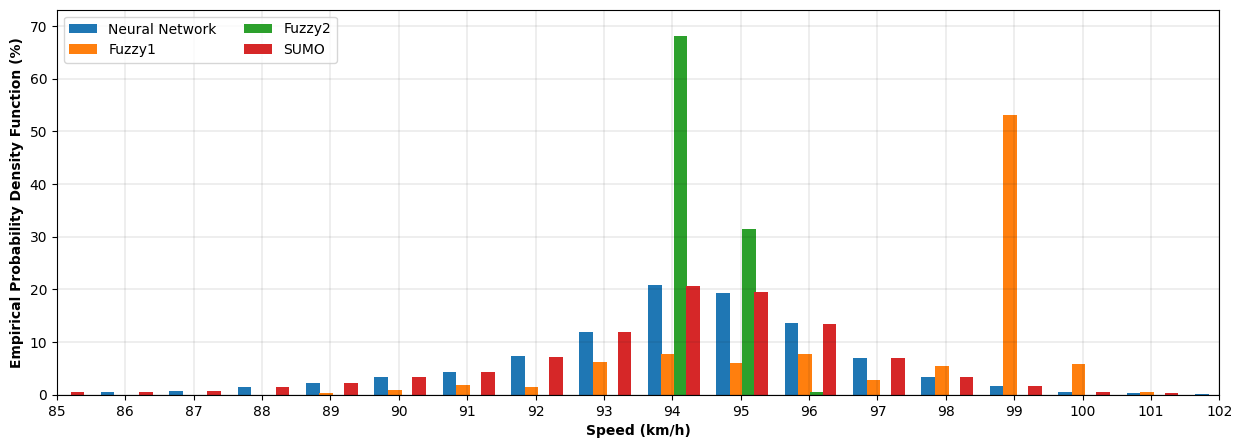
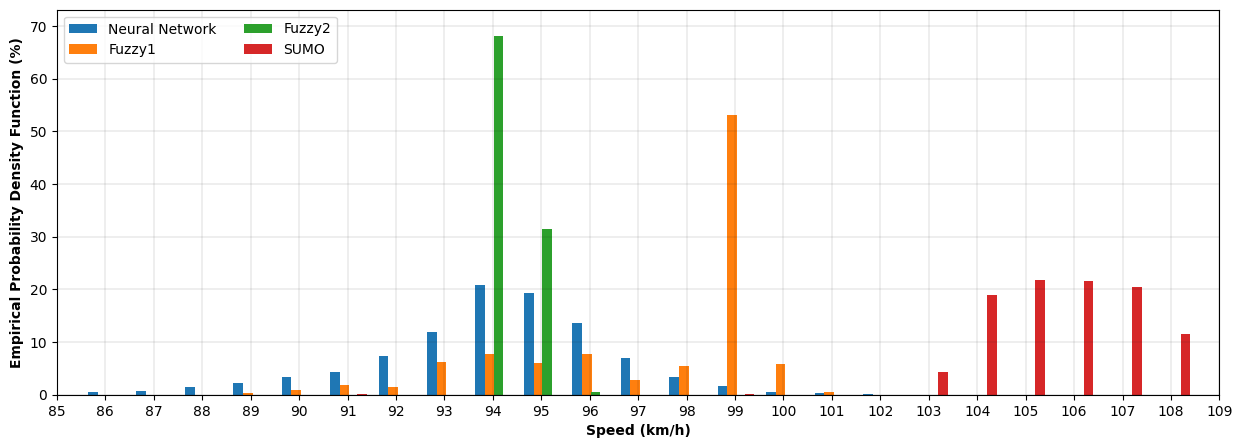
update

Changed region(s): [[0.0612, 0.0625, 0.9485, 0.9375], [0.9485, 0.75, 0.9791, 0.875], [0.9791, 0.9062, 1.0, 0.9375]]

diff --git a/PDF/results/Histogram.py b/PDF/results/Histogram.py
@@ -63,7 +63,7 @@ y3 = np.array(y3)
 def plott(x,x1,x2,x3,y,y1,y2,y3):    
 
     limInf = 85
-    limSup = 102
+    limSup = 109
     space = 0.6
 
     new = []
@@ -87,6 +87,6 @@ def plott(x,x1,x2,x3,y,y1,y2,y3):
     plt.grid(True, which="both", ls="-", linewidth=0.1, color='0.10', zorder=0)
     name = arquivo
     fig.savefig(name+'.png', bbox_inches='tight')
-    plt.close(fig)          
+    plt.close(fig)
 
 plott(x,x1,x2,x3,y,y1,y2,y3)
